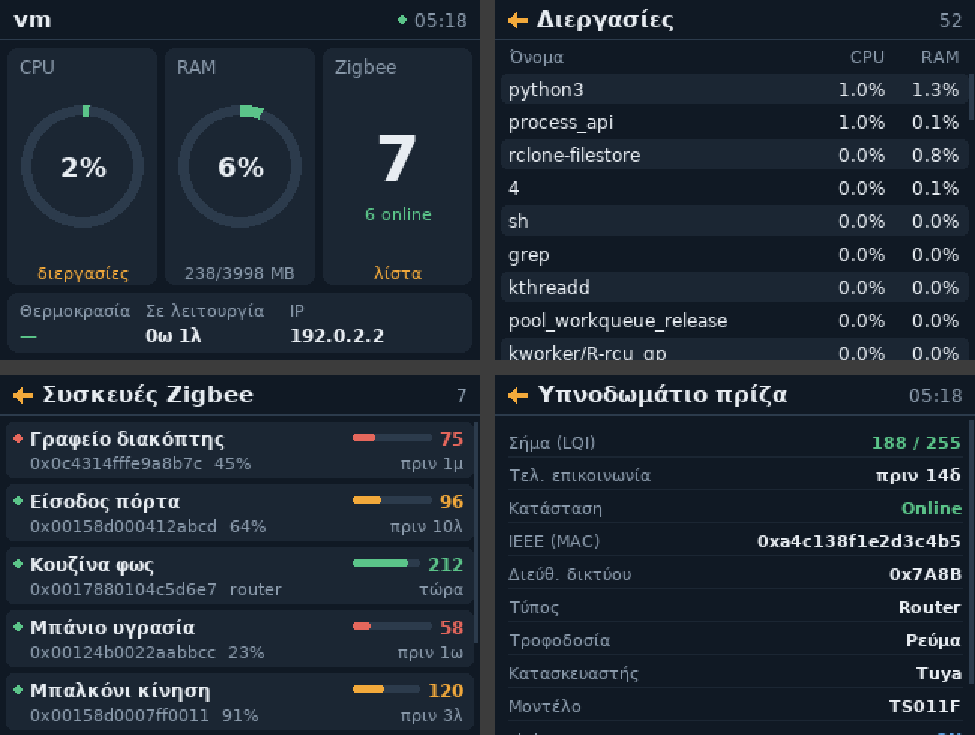
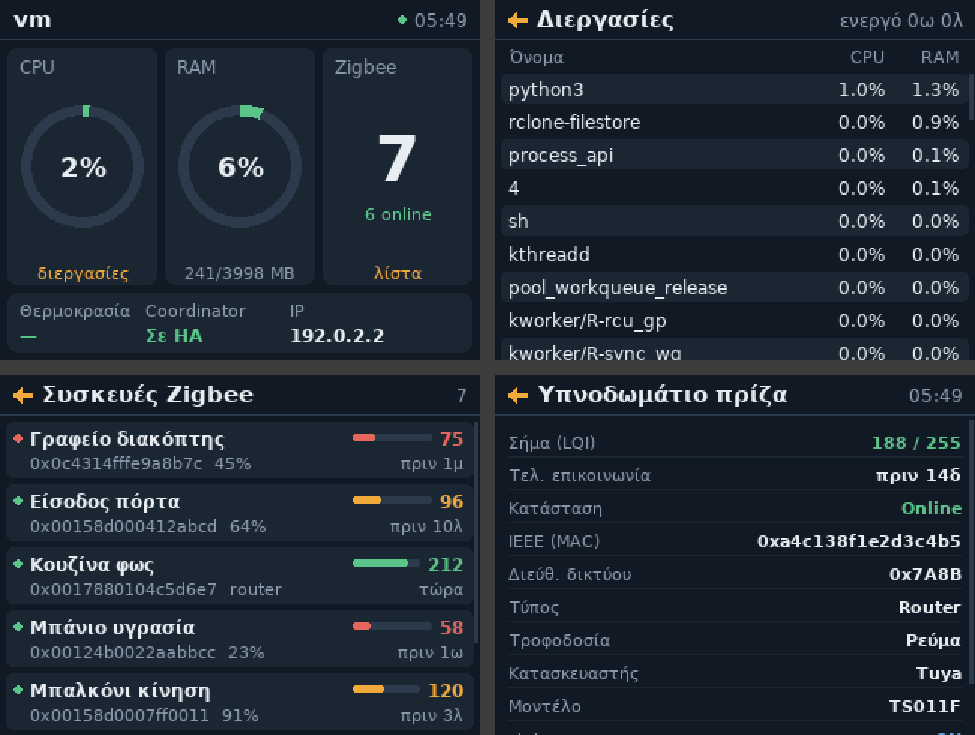
Γέφυρα coordinator με ser2net, ένδειξη κατάστασης, ρύθμιση MQTT στην εγκατάσταση

diff --git a/zigbee_panel.py b/zigbee_panel.py
@@ -42,6 +42,9 @@ CONFIG = {
     # "fb": γράφει απευθείας στο framebuffer (οθόνες SPI στις GPIO), "sdl": παράθυρο / HDMI
     "output": os.getenv("PANEL_OUTPUT", "fb"),
     "fbdev": os.getenv("PANEL_FB", "/dev/fb1"),
+    # Coordinator μέσω ser2net (το Pi κάνει γέφυρα USB -> δίκτυο για το Home Assistant)
+    "ser2net_port": int(os.getenv("PANEL_SER2NET_PORT", "6638")),
+    "coordinator_dev": os.getenv("PANEL_COORDINATOR_DEV", ""),
     # Βαθμονόμηση αφής (γράφεται αυτόματα από: python3 zigbee_panel.py --calibrate)
     "touch_swap": os.getenv("PANEL_TOUCH_SWAP", "0") == "1",
     "touch_x_min": float(os.getenv("PANEL_TOUCH_X_MIN", "0")),
@@ -158,6 +161,8 @@ class SysStats:
         self.ip = "—"
         self.procs = []
         self._ip_at = 0
+        self.coord = ("—", MUTED)
+        self._coord_at = 0
         psutil.cpu_percent(None)
         self.update_procs()  # αρχικοποίηση μετρητών CPU ανά διεργασία
 
@@ -170,6 +175,38 @@ class SysStats:
         if time.time() - self._ip_at > 30:
             self.ip = self._read_ip()
             self._ip_at = time.time()
+        if time.time() - self._coord_at > 5:
+            self.coord = self._read_coord()
+            self._coord_at = time.time()
+
+    @staticmethod
+    def _read_coord():
+        """Κατάσταση γέφυρας: υπάρχει το USB stick; τρέχει το ser2net; έχει συνδεθεί το HA;"""
+        if CONFIG["demo"]:
+            return "Σε HA", GREEN
+        dev = CONFIG["coordinator_dev"]
+        if dev:
+            present = os.path.exists(dev)
+        else:
+            present = os.path.isdir("/dev/serial/by-id") and bool(os.listdir("/dev/serial/by-id"))
+        if not present:
+            return "Χωρίς stick", RED
+        port = CONFIG["ser2net_port"]
+        listening = connected = False
+        try:
+            for c in psutil.net_connections("tcp"):
+                if c.laddr and c.laddr.port == port:
+                    if c.status == psutil.CONN_LISTEN:
+                        listening = True
+                    elif c.status == psutil.CONN_ESTABLISHED:
+                        connected = True
+        except (psutil.AccessDenied, OSError):
+            return "Άγνωστο", MUTED
+        if connected:
+            return "Σε HA", GREEN
+        if listening:
+            return "Αναμονή HA", AMBER
+        return "ser2net off", RED
 
     def update_procs(self):
         ncpu = psutil.cpu_count() or 1
@@ -480,7 +517,7 @@ class App:
         t = self.sys.temp
         items = [
             ("Θερμοκρασία", f"{t:.0f}°C" if t is not None else "—", level_color((t or 0) * 1.25)),
-            ("Σε λειτουργία", fmt_uptime(self.sys.uptime), TEXT),
+            ("Coordinator", self.sys.coord[0], self.sys.coord[1]),
             ("IP", self.sys.ip, TEXT),
         ]
         colw = [0.28, 0.32, 0.40]
@@ -494,7 +531,7 @@ class App:
     def draw_procs(self):
         s = self.screen
         procs = self.sys.procs
-        self.header("Διεργασίες", right=f"{len(procs)}")
+        self.header("Διεργασίες", right=f"ενεργό {fmt_uptime(self.sys.uptime)}")
         show_pid = W >= 400
         x_cpu, x_ram = W - S(90), W - S(16)
         cols = [(S(14), "Όνομα", "topleft")]

diff --git a/README.md b/README.md
@@ -1,7 +1,14 @@
 # Zigbee Panel
 
 Οθόνη πληροφοριών για Raspberry Pi Zero W με οθόνη αφής 3.2" SPI (320×240, Waveshare ILI9341 / XPT2046).
-Δείχνει CPU, RAM, θερμοκρασία, διεργασίες και τις συσκευές Zigbee από το Zigbee2MQTT.
+Δείχνει CPU, RAM, θερμοκρασία, διεργασίες και τις συσκευές Zigbee.
+Το Pi κάνει γέφυρα για τον USB Zigbee coordinator (ser2net) προς το Home Assistant.
+
+```
+[USB stick] ── Pi Zero W (ser2net :6638) ── WiFi ──> Home Assistant
+                     ▲                                 ├─ Zigbee2MQTT add-on
+                     └──────── MQTT (συσκευές) ─────── └─ Mosquitto add-on
+```
 
 ![Οθόνες](docs/preview.png)
 
@@ -22,6 +29,18 @@ cd zigbee-panel
 
 Οι ρυθμίσεις (MQTT, οθόνη, αφή) είναι στο `panel.env`, που δεν ανεβαίνει στο GitHub.
 
+## Coordinator
+
+Όταν συνδέσεις το USB stick:
+
+```bash
+./coordinator.sh
+```
+
+Στο τέλος σου δείχνει τι να βάλεις στο add-on Zigbee2MQTT του Home Assistant
+(`serial: port: tcp://<IP-του-Pi>:6638`). Στην αρχική οθόνη, η ένδειξη Coordinator δείχνει:
+«Χωρίς stick», «ser2net off», «Αναμονή HA» ή «Σε HA».
+
 ## Ενημέρωση
 
 ```bash
@@ -38,7 +57,7 @@ cd zigbee-panel
 | Logs | `journalctl -u zigbee-panel -f` |
 | Επανεκκίνηση | `sudo systemctl restart zigbee-panel` |
 
-## Ρυθμίσεις Zigbee2MQTT
+## Ρυθμίσεις Zigbee2MQTT (στο Home Assistant)
 
 Για σωστή «τελευταία επικοινωνία» και ένδειξη online/offline, στο `configuration.yaml` του Zigbee2MQTT:
 
